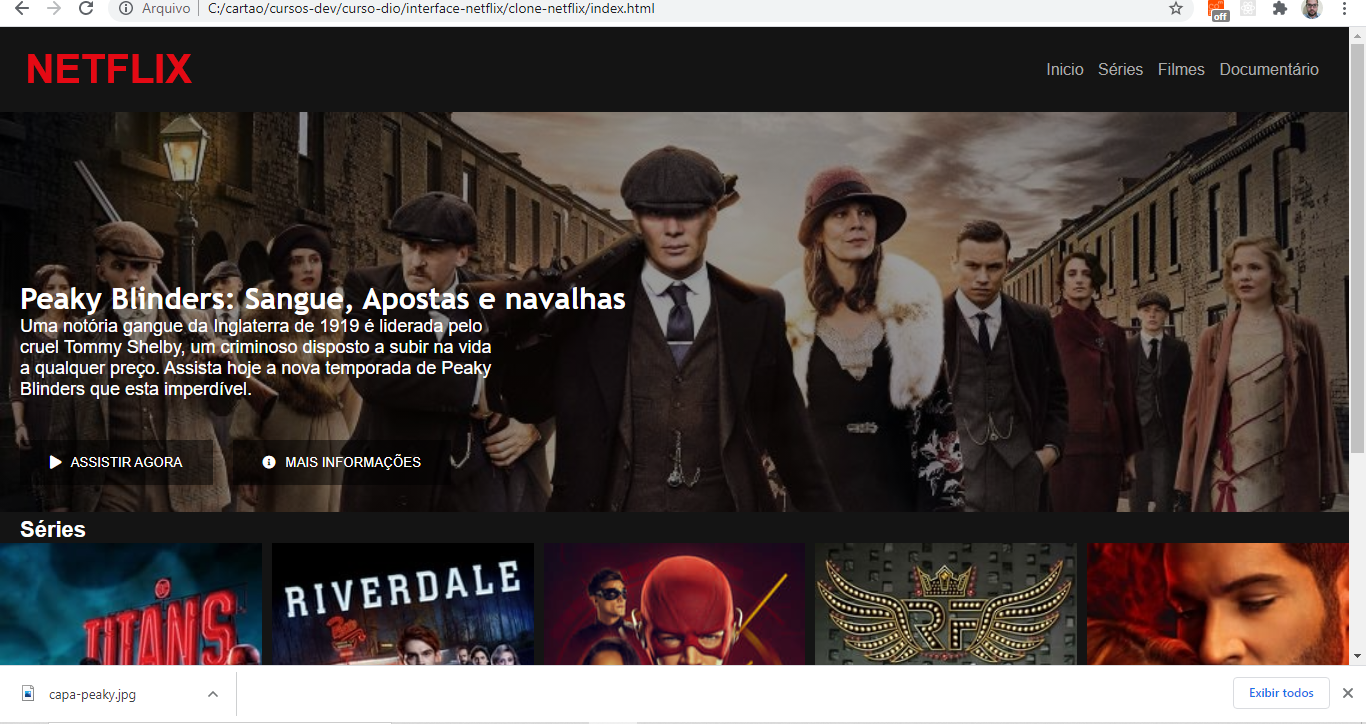
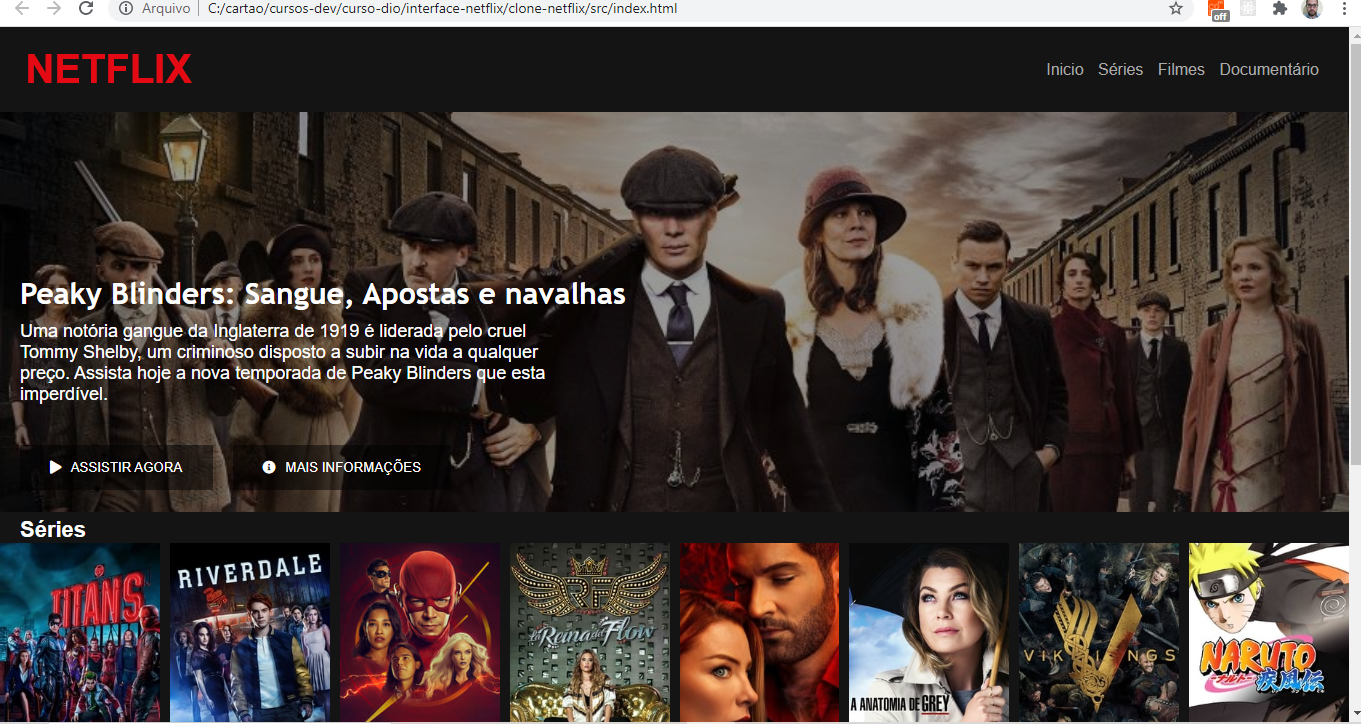
Responsive adjustments

diff --git a/style/responsive.css b/style/responsive.css
@@ -7,17 +7,30 @@
 
     .serie-principal{
         margin-bottom: 20px;
+        background-position: center;
+    }
+
+    .titulo {
+        font-size: 24px;
     }
 
     .botao{
         margin-top: 5px;
         width: 300px;
     }
+
+    .serie-principal .descricao{
+        font-size: 16px;
+    }
+
+    .carousel-series .titulo-carousel {
+        font-size: 18px;
+    }
 }
 
 @media screen and (min-width: 1000px) {
     .serie-principal .descricao{
-        width: 50%;
+        width: 60%;
     }
 }
 

diff --git a/js/main.js b/js/main.js
@@ -7,11 +7,11 @@ $('.owl-carousel').owlCarousel({
         0:{
             items:1
         },
-        600:{
-            items:3
+        300:{
+            items:4
         },
-        1000:{
-            items:5
+        600:{
+            items:8
         }
     }
 })

diff --git a/style/main.css b/style/main.css
@@ -58,6 +58,7 @@ header nav a:hover{
 
 .titulo{
     margin-top: 15%;
+    margin-bottom: 10px;
     font-size: 30px;
     font-family: 'Trebuchet MS', Arial, sans-serif;
 }
